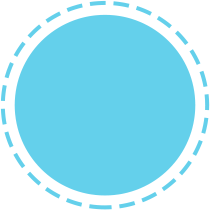
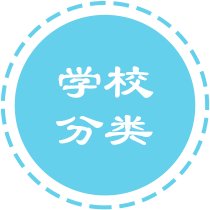
学校模块完成，解决缺少图标问题

Changed region(s): [[0.2571, 0.3143, 0.7429, 0.4857], [0.2571, 0.5429, 0.7429, 0.7143]]

diff --git a/src/components/schoolIntroduction/schoolMain.vue b/src/components/schoolIntroduction/schoolMain.vue
@@ -2,13 +2,11 @@
   <div class="school">
      <div class="sBorder">
      	<div class="sBg">
-     	    <img class="img1" @click="jump('school_youeryuan')" src="../../../static/img/schoolIntroduction/组 1@3x.png" alt="" />
+     	    <img class="img1" @click="jump('school_youeryuan')" src="../../../static/img/schoolIntroduction/组2@2x.png" alt="" />
      	    <img class="img2" @click="jump('school_xiaoxue')" src="../../../static/img/schoolIntroduction/组 2 拷贝@3x.png" alt="" />
      	    <img class="img3" @click="jump('school_zhongxue')" src="../../../static/img/schoolIntroduction/组 1@3x.png" alt="" />
      	    <img class="img4" @click="jump('school_zhiyexuexiao')" src="../../../static/img/schoolIntroduction/组 2 拷贝 2@3x.png" alt="" />
-     	    <div class="middleImg">
-     	    	<div>学校分类</div>
-     	    </div>
+     	    <img class="middleImg" src="../../../static/img/schoolIntroduction/middleImg.png" alt="" />
      	    
      	</div>
      </div>
@@ -80,14 +78,10 @@
     .middleImg{
     	position:absolute;
     	width:210px;
-    	height:210px;
-    	top:252px;
-    	left:252px;
-    	background: url(./../../../static/img/schoolIntroduction/middleImg.png) no-repeat;
-	    background-size: 210px;
-	    padding:56px 0 0 60px;
+    	top:235px;
+    	left:235px;
     }
-    .middleImg div{
+    /*.middleImg div{
     	width:98px;
     	height:79px;
     	font-size:40px;
@@ -95,7 +89,7 @@
 		  font-weight:400;
 		  color:rgba(254,255,255,1);
 		  line-height:49px;
-    }
+    }*/
     .img1{
     	margin:31px 105px 140px 41px;
     }
